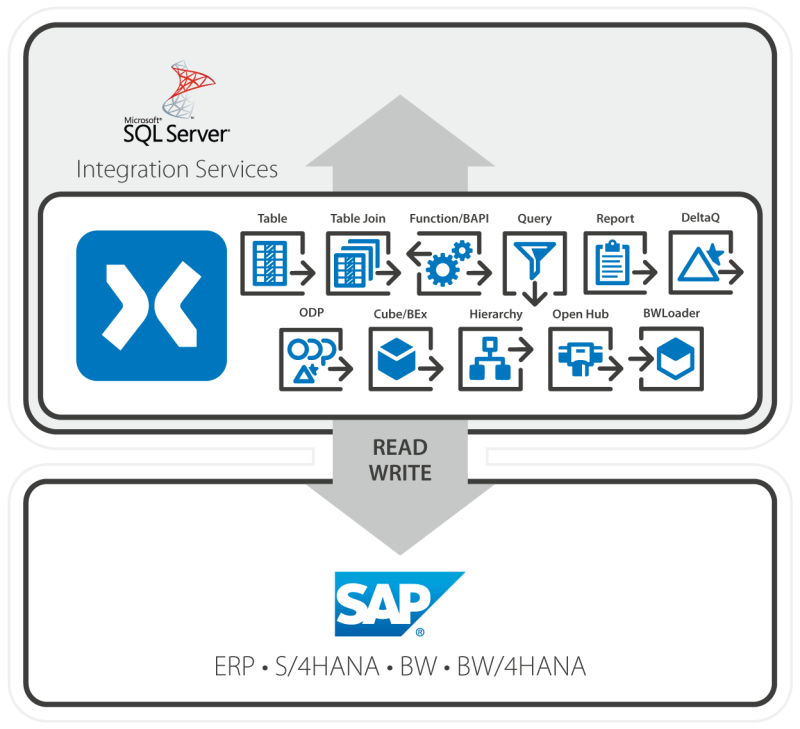
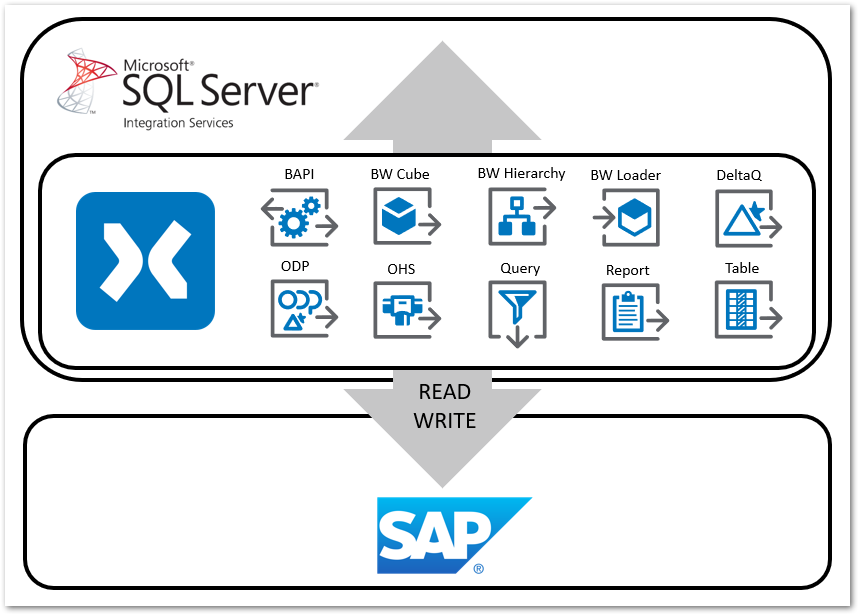
dead links

Changed region(s): [[0.0, 0.0, 1.0, 1.0]]

diff --git a/content/_en/xtract-is/index.md b/content/_en/xtract-is/index.md
@@ -47,24 +47,22 @@ The overview below depicts the types of the Data Flow components.
 - [**Table Join**](./table-join) -  allows to join several SAP tables. The Join-process takes place entirely within the SAP system without downloading single tables.<br>
 **Note: obsolete component! Use Table component instead.**
 
-- [**BAPI**](./bapis-and-function-modules) accesses BAPIs and RFC function modules.
+- [**BAPI**](./bapi) accesses BAPIs and RFC function modules.
 
-- [**Query**](./sap-queries) extracts ERP queries. **Note: not BEx queries supplied by BW Cube**.
+- [**Query**](./query) extracts ERP queries. **Note: not BEx queries supplied by BW Cube**.
 
-- [**Report**](./abap-reports) extracts ABAP Reports.
+- [**Report**](./report) extracts ABAP Reports.
 
-- [**DeltaQ**](./datasource-deltaq) extracts DataSources (OLTP) and extractors from ERP and ECC systems.
+- [**DeltaQ**](./deltaq) extracts DataSources (OLTP) and extractors from ERP and ECC systems.
 
-- [**BW Cube**](./bw-infocubes-and-bex-queries) extracts data from SAP BW InfoCubes and BEx Queries.
+- [**BW Cube**](./bw-cube) extracts data from SAP BW InfoCubes and BEx Queries.
 
-- [**BW Hierarchy**](../bw-hierarchies) extracts Hierarchies from an SAP BW / BI system.
+- [**BW Hierarchy**](./hierarchy) extracts Hierarchies from an SAP BW / BI system.
 
-- [**Open Hub Services (OHS)**](../bw-open-hub-services) extracts InfoSpokes and OHS destinations. <!--Frage: kann man destinations extrahieren?-->
+- [**Open Hub Services (OHS)**](./open-hub-service-ohs) extracts InfoSpokes and OHS destinations. <!--Frage: kann man destinations extrahieren?-->
 
-- [**DeltaQ**](../datasource-deltaq) extracts Export DataSources.
-
-- [**BW Loader**](../bw-loader) loads data into SAP BW systems.
-
+- [**BW Loader**](./bw-loader) loads data into SAP BW systems.
+- [**ODP**](./odp) extracts data via the SAP Operational Data Provisioning (ODP) framework.
 
 
 The online help for Xtract IS consists of the following sections:

diff --git a/content/_de/xtract-universal/einfuehrung/installation-und-update.md b/content/_de/xtract-universal/einfuehrung/installation-und-update.md
@@ -29,7 +29,7 @@ Beim Starten des Setups können die optionalen Komponenten (1) für die Installa
 |Tableau Extract API | Komponente erforderlich nur für die Tableau Destination |
 |Start Menu Shortcut | Komponente, die dem Startmenü Verknüpfungen hinzufügt |
 |Convert Config files | Konvertiert Extraktionen, Sources (Quellen), Destinationen usw. vom Format der vorherigen Version in das neue Format. Diese Komponente ist entscheidend bei der Installation von Major Releases und Upgrades von z.B. Version 3.x auf 4.x.
-Install Service | Installiert die Serverkomponente als Windows-Service. Mehr Details im Abschnitt [Architektur](./architektur).
+Install Service | Installiert die Serverkomponente als Windows-Service. Mehr Details im Abschnitt [Einführung in Xtract Universal](./einfuehrung).
 
 Die Installationsschritte werden im Abschnitt [Lizenz](./lizenz#installieren-von-xtract-universal-lizenz---xtractuniversallicensejson) beschrieben.
 

diff --git a/content/_en/xtract-universal/introduction/installation-and-update.md b/content/_en/xtract-universal/introduction/installation-and-update.md
@@ -29,7 +29,7 @@ When starting the setup, components (1) can be selected during the installation.
 |Tableau Extract API | Component is only required for Tableau destination |
 |Start Menu Shortcut | Component that adds shortcuts to the start menu |
 |Convert Config files | Converts extractions, sources, destinations, etc. from previous version format to new format. Crucial when installing major releases and upgrading from e.g., version 3.x to 4.x.|
-Install Service | Installs the server component as a windows service. See also section [Architecture](./architecture).|
+Install Service | Installs the server component as a windows service. See also section [Introduction to Xtract Universal](./introduction).|
 
 The license installation procedure is described in the section [Installing the license](license#installing-the-xtract-universal-license---xtractuniversallicensejson).
 

diff --git a/content/_de/xtract-universal/index.md b/content/_de/xtract-universal/index.md
@@ -28,7 +28,7 @@ Je nach Art des SAP-Quellsystems gibt es unterschiedliche Szenarien beim Einsatz
 
 - [**BAPI**](./bapis-und-funktionsbausteine) greift auf BAPIs und RFC-Funktionsmodule zu.
 - [**BW Cube**](./bw-infocubes-und-bex-queries) extrahiert Dateb aus SAP BW InfoCubes und BEx Queries.
-- [**BW Hierarchy**](../bw-hierarchien) extrahiert Hierarchien aus SAP BW / BI Systemen.
+- [**BW Hierarchy**](./bw-hierarchien) extrahiert Hierarchien aus SAP BW / BI Systemen.
 - [**DeltaQ**](./datasource-deltaq) extrahiert DataSources (OLTP) und Extraktoren aus dem ERP und ECC System.
 - [**ODP**](./odp) extrahiert Daten über das SAP Operational Data Provisioning (ODP) Framework.
 - [**Open Hub Services (OHS)**](./bw-open-hub-services) extrahiert InfoSpokes und OHS Destinationen. <!--Frage: kann man destinations extrahieren?-->
